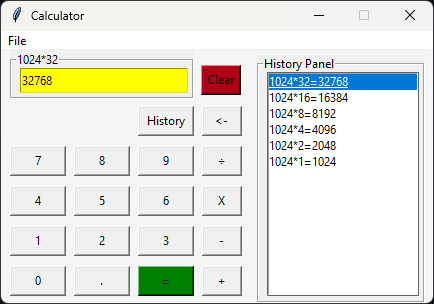
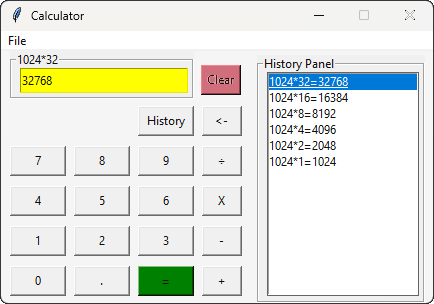
Screenshots: Update designer-calculator-running-history.png designer-calculator-running.png Added designer-canvas-palette-properties.gif Removed designer-canvas-palette-properties.png Updated README.md to reflect designer-canvas-palette-properties.gif

diff --git a/README.md b/README.md
@@ -47,7 +47,7 @@ For AI features: install [Ollama](https://ollama.com) and run `ollama pull qwen2
 
 ### GUI Designer
 
-<img src="screenshots/designer-canvas-palette-properties.png" width="100%">
+<img src="screenshots/designer-canvas-palette-properties.gif" width="100%">
 <p align="center">
   <img src="screenshots/designer-calculator-running-history.png" width="50%">
   <img src="screenshots/designer-calculator-running.png" width="30%">